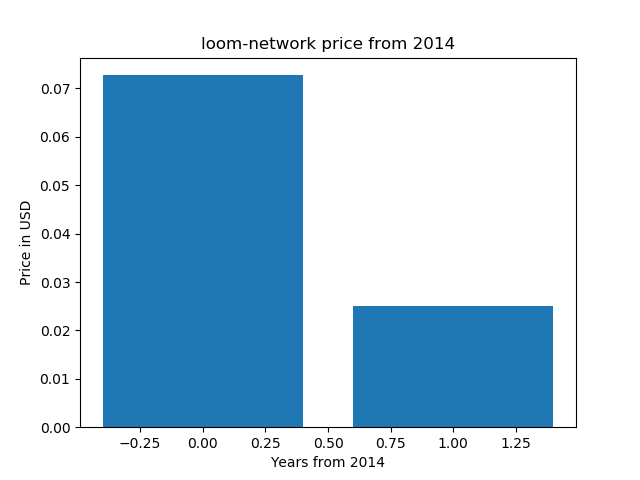
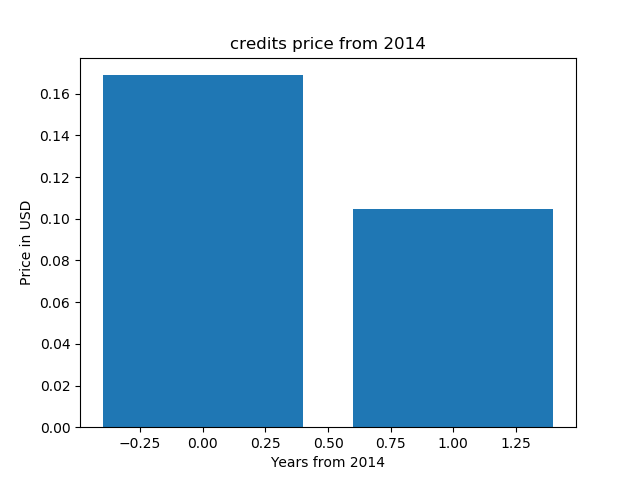
first commit

diff --git a/example.py b/example.py
@@ -10,7 +10,7 @@ from time import gmtime, strftime
 import matplotlib.pyplot as plt
 
 enddate = strftime("%Y%m%d", gmtime())
-r  = requests.get("https://coinmarketcap.com/currencies/loom-network/historical-data/?start=20140101&end={0}".format(enddate))
+r  = requests.get("https://coinmarketcap.com/currencies/credits/historical-data/?start=20140101&end={0}".format(enddate))
 data = r.text
 
 soup = BeautifulSoup(data, "html.parser")
@@ -44,7 +44,7 @@ print(x)
 
 x = list(range(0, len(prices)))
 
-plt.title('loom-network price from 2014')
+plt.title('credits price from 2014')
 plt.ylabel('Price in USD')
 plt.xlabel('Years from 2014')
 plt.bar(x, prices)

diff --git a/README.md b/README.md
@@ -1,6 +1,6 @@
-# loom-network price chart 
+# credits price chart 
 
-loom-network price chart (matplotlib, python)
+credits price chart (matplotlib, python)
 
 https://pythonprogramminglanguage.com
 
